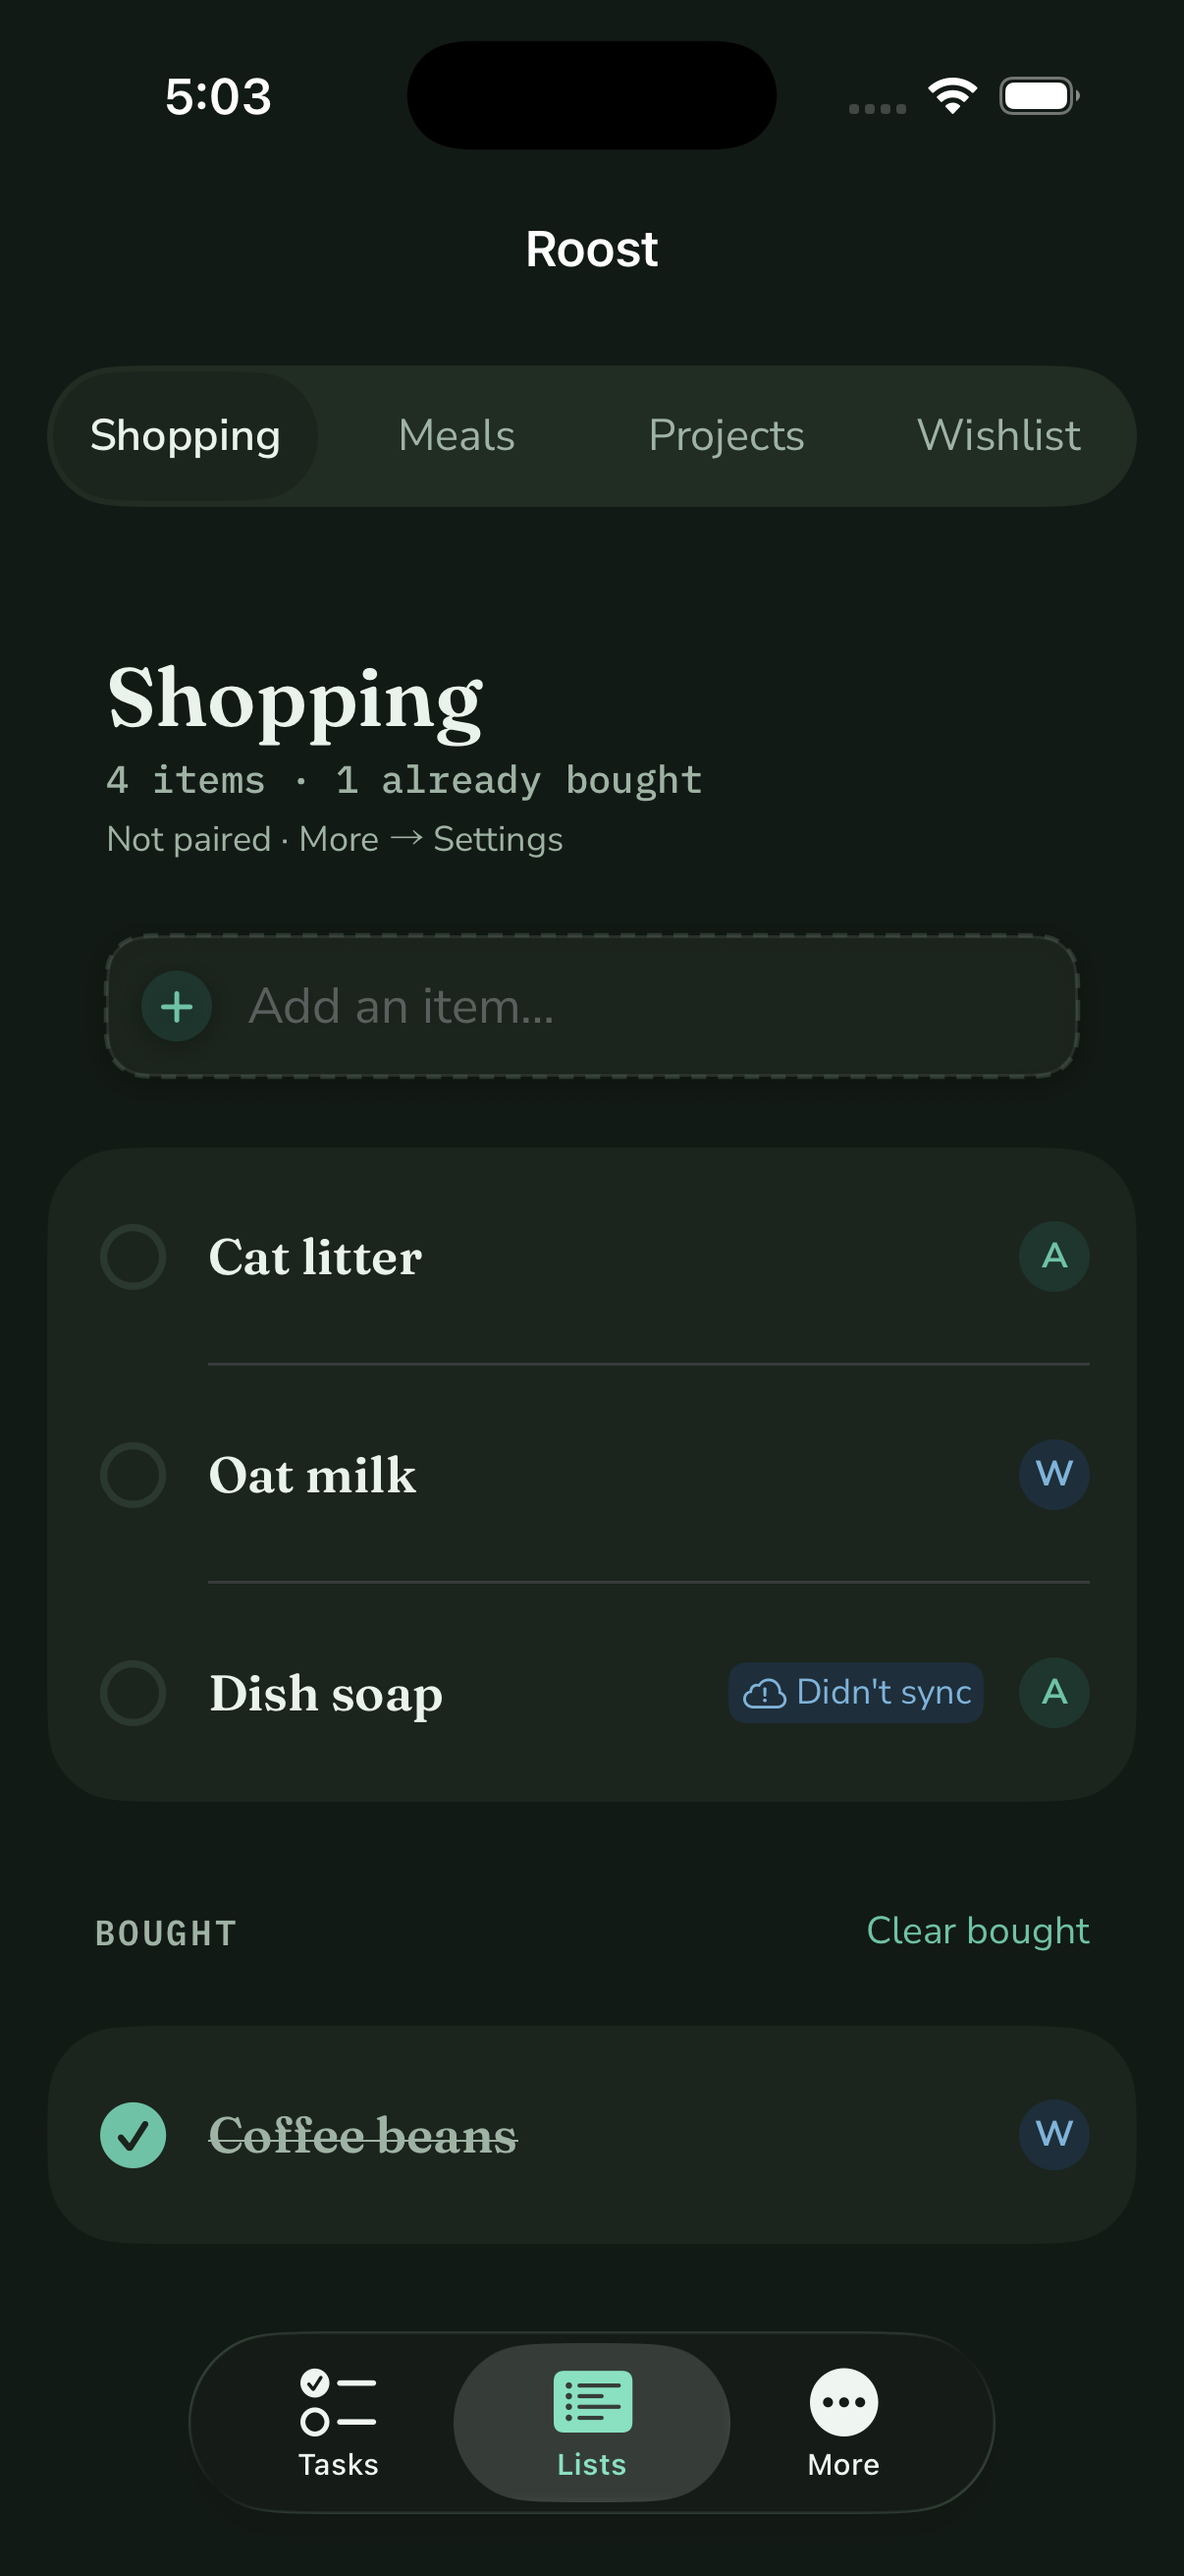
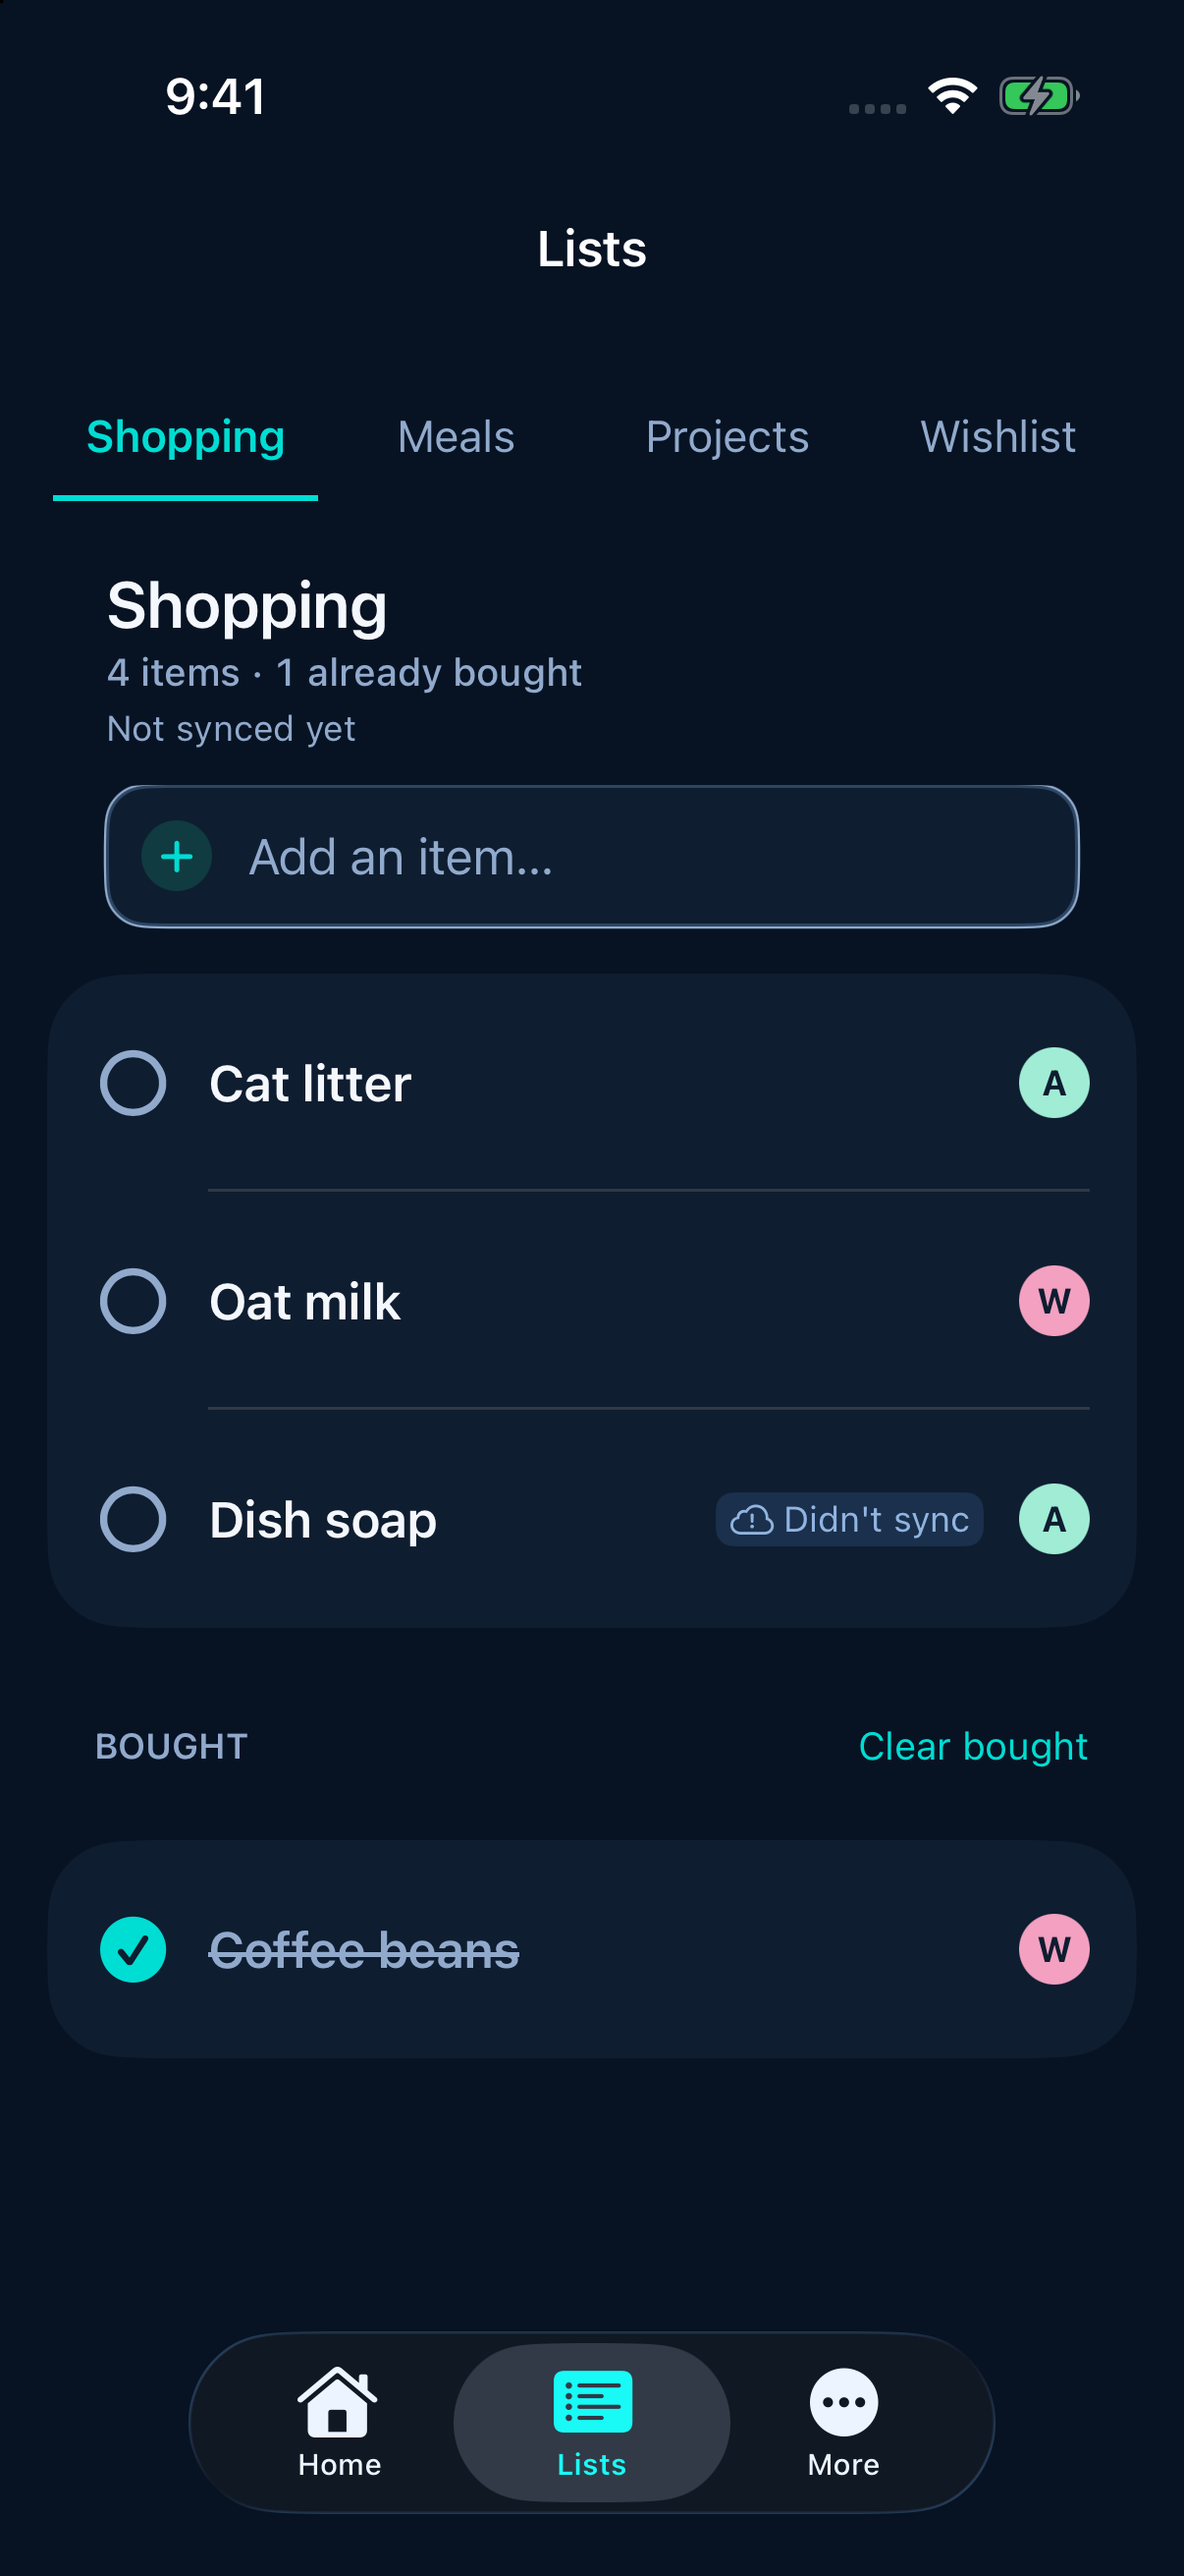
Recapture the Lists screenshots from the current app.
Lists and Shopping were leftover shots of different tab bars. Both files are now the same Shopping page inside Lists, in light and dark, and Meals, Projects, and Wishlist match that chrome.

diff --git a/Roost/README.md b/Roost/README.md
@@ -197,7 +197,7 @@ Roost/
   docs/tasks-streak.png       the same screen with the streak card expanded
   docs/tasks-streak-dark.png  the expanded streak card in dark mode
   docs/tasks-ax.png           the same screen at the largest accessibility text size
-  docs/lists.png              simulator screenshot, Lists tab on Shopping with the sliding-pill segmented control; docs/lists-dark.png in dark mode
+  docs/lists.png              simulator screenshot, Lists tab on Shopping; docs/lists-dark.png in dark mode. shopping.png is the same screen.
   docs/wishlist.png           simulator screenshot, Wishlist page; docs/wishlist-dark.png in dark mode
   docs/more.png               simulator screenshot, More tab
   docs/shopping.png           simulator screenshot, Shopping page inside Lists; docs/shopping-dark.png in dark mode
